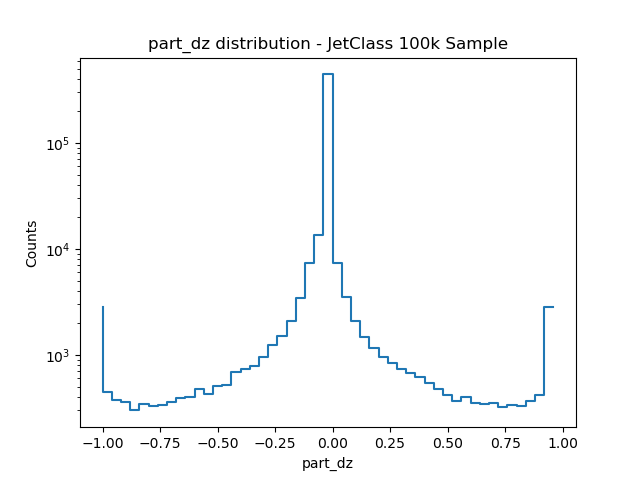
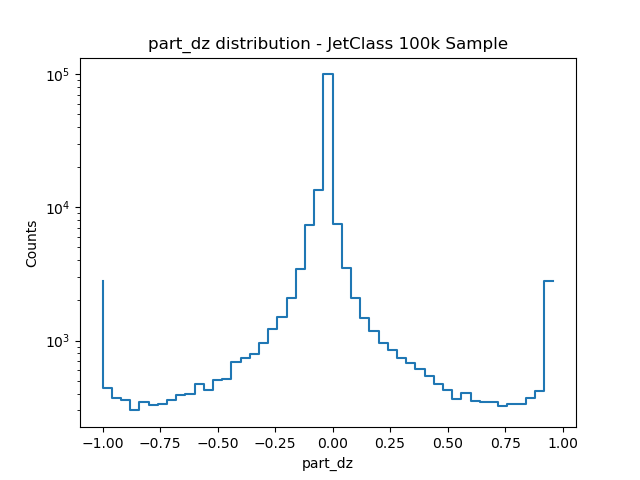
don't transform the features

diff --git a/graph_jc_features.py b/graph_jc_features.py
@@ -5,9 +5,13 @@ import numpy as np
 import matplotlib
 
 def mask_out(feats, vectors, mask):
-    num_particles = [np.sum(mask[i].astype('int')) for i in range(mask.shape[0])]
-    masked_feats = [feats[i][:][:num_particles[i]] for i in range(feats.shape[0])]
-    masked_vecs = [vectors[i][:][:num_particles[i]] for i in range(vectors.shape[0])]
+    masked_feats = []
+    masked_vecs = []
+    #masked_feats, masked_vecs = mask_out(features, vectors, masks)
+    for jet_idx, jet in enumerate(feats):
+        masked_feats.append(jet[:, :np.sum(mask[jet_idx].astype('bool'))])
+    for jet_idx, jet in enumerate(vectors):
+        masked_vecs.append(jet[:, :np.sum(mask[jet_idx].astype('bool'))])
     
     return masked_feats, masked_vecs
 

diff --git a/graph_example_jc_features.py b/graph_example_jc_features.py
@@ -108,7 +108,7 @@ def build_features_and_labels(tree, transform_features=True):
 datapath = '/part-vol-3/timlegge-ParT-trained/JetClass_example_100k.root'
 with uproot.open(datapath) as f:
     tree = f['tree']
-    data = build_features_and_labels(tree)
+    data = build_features_and_labels(tree, transform_features=False)
     features = data['pf_features'][:4000]
     vectors = data['pf_vectors'][:4000]
     masks = data['pf_mask'][:4000]
